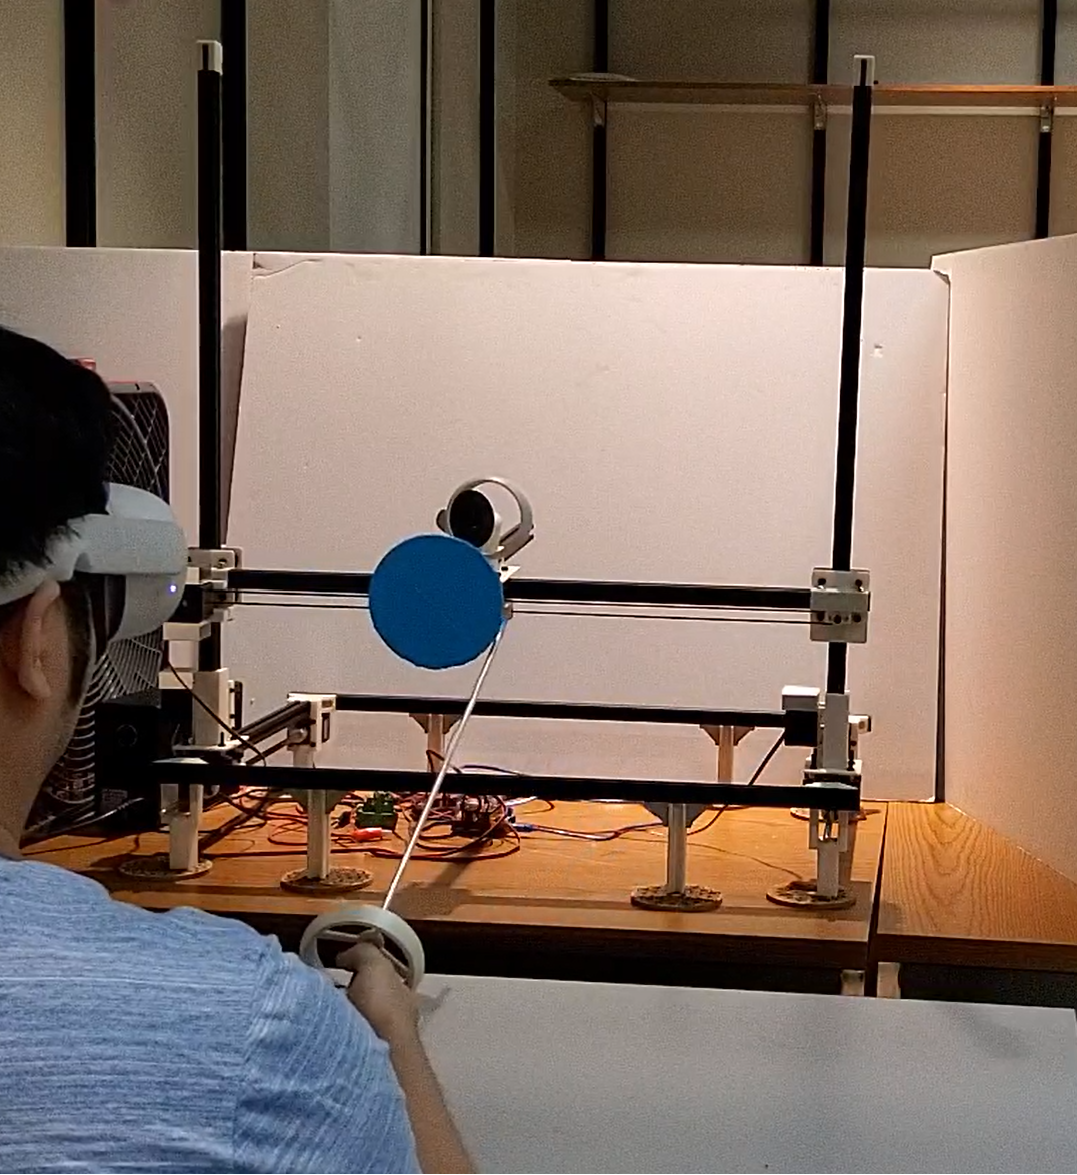
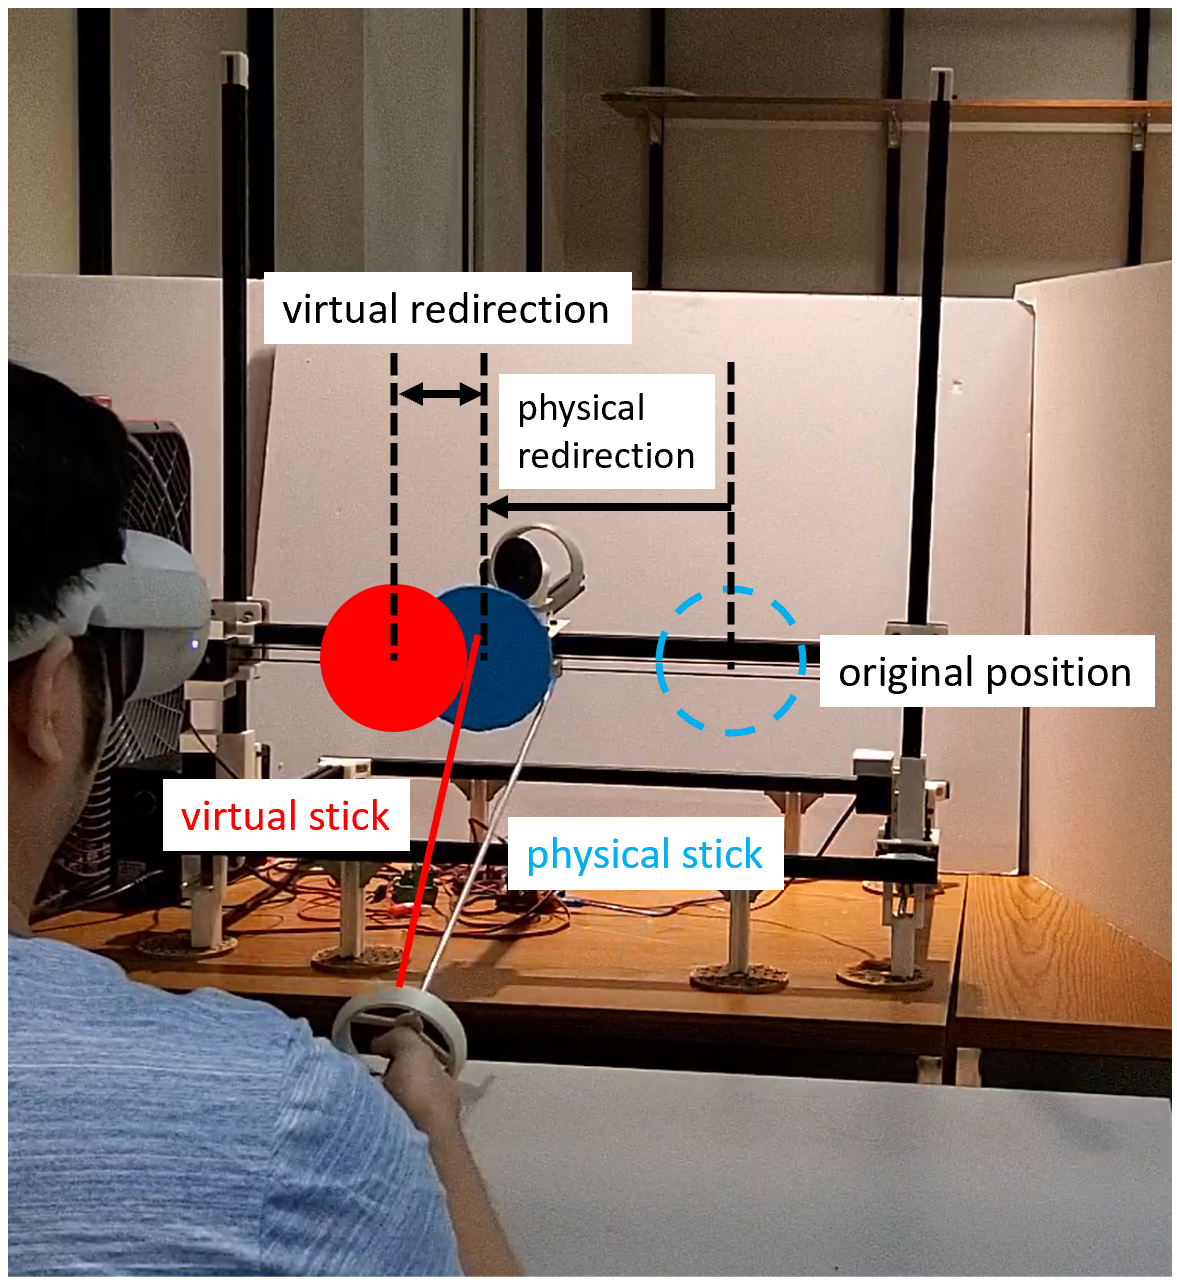
update images and projects

Changed region(s): [[0.0, 0.0, 1.0, 1.0], [0.9192, 0.8272, 0.9499, 0.8579]]

diff --git a/index.html b/index.html
@@ -39,15 +39,15 @@
             <h1>About me</h1>
   <div class="col-md-9">
       <p lang="en">
-          I am currently a PhD candidate at <a href="https://www.cs.purdue.edu/">Purdue University</a>, 
-          where I started my PhD program since 2021, advised by Professor <a href="https://www.cs.purdue.edu/homes/popescu/">Voicu Popescu</a>.
-          I am interested in XR research, especially VR haptics.
-          My take for the future VR haptics is an immersive world that enables the user to touch *anything* within their reach, a dream shown in
-          the movie <a href="https://en.wikipedia.org/wiki/Ready_Player_One_(film)">Ready Player One</a>.
-          For the first step, I designed and built the first prototype of Encountered-type Haptic Device (ETHD) last year in the form of a Cartesian robot.
-          I'm also a big fan of wearable haptic devices and will work on them in the future.
-          Other than VR haptics, I also have first-author publications in other XR fields, such as Cloud VR and collaborate AR. 
-          Here is my <a href="contents/resume_YuqiZhou.pdf">CV</a>.
+          I am currently a Computer Science PhD candidate at <a href="https://www.cs.purdue.edu/">Purdue University</a>, 
+          advised by Professor <a href="https://www.cs.purdue.edu/homes/popescu/">Voicu Popescu</a>.
+          I am interested in extended reality (XR), especially haptics for virtual reality (VR). My take on the future of VR haptics is 
+          an immersive world in which the user can touch any virtual object within their reach—a lot like in the 
+          <a href="https://en.wikipedia.org/wiki/Ready_Player_One_(film)">Ready Player One</a> movie. I have taken a first step in this 
+          direction: I designed and built an Encountered-Type Haptic Device (ETHD) in the form of a Cartesian robot. I am also a big fan 
+          of wearable haptic devices, on which I plan to work in the immediate future. Other than VR haptics, I am also interested in 
+          other XR fields, such as cloud VR and collaborative augmented reality (AR). Here is my 
+          <a href="contents/resume_YuqiZhou.pdf">CV</a>.
 </div>
   
   <div class="col-md-3">
@@ -57,19 +57,23 @@
   <div class="clearfix"></div>
   <hr>
   
-  <h1>Selected work</h1>
+  <h1>Research projects</h1>
   
   <!-- ETHD -->
-  <div class="col-md-4">
+  <div class="col-md-5">
       <a href="./images/ETHD.png" title="EHTD"><img src="images/ETHD.png" alt="ETHD design" class="img-responsive"></a>
   </div>
-  <div class="col-md-8">
+  <div class="col-md-7">
       <h2><a href="https://github.com/youyutiancai/ETHD_Cartesian/tree/main">VR haptics with ETHD</a></h2>
       <p lang="en"> 
-        The first component of all-accessible system is a robot that serves as physical replica of stationary objects, especially those placed on stationary surfaces such as a table.
-        Without an ETHD, a wearable device that can simulate the tactile feedback cannot properly halt the user's hand. As a result, the user's hand will penetrate 
-        through the object.
-        I built this robot mainly for proving some of my thoughts and hypotheses. 
+        One can allow the user to touch any virtual object by building a high-fidelity physical replica of the virtual environment—but 
+        that is impractical. A better approach is to try to alleviate the differences between the virtual and the physical world. One 
+        option is to change the physical world to align it locally with the part of the virtual world with which the user is about to 
+        interact. For this I built an ETHD, a Cartesian robot that moves a physical object to align it with the virtual object the user 
+        is about to touch. Another option is to change the virtual world to align it with the physical world. I have developed physical 
+        and virtual redirection algorithms that cooperate to allow the user to touch stationary or dynamic virtual objects of varying 
+        shapes with perfect synchronization of the virtual and physical contacts. This provides the user with safe and believable haptic 
+        feedback. The image shows my ETHD providing haptic feedback to the user.
         <!--See the <a href="/publications">publications page</a> for more details.-->
       </p>
   </div>
@@ -80,15 +84,16 @@
   <div class="col-md-12"></div><div class="col-md-12"></div><div class="col-md-12"></div><div class="col-md-12"></div><div class="col-md-12"></div><div class="col-md-12"></div>
   <div class="col-md-12"></div><div class="col-md-12"></div><div class="col-md-12"></div><div class="col-md-12"></div><div class="col-md-12"></div><div class="col-md-12"></div>
   <!-- CloVR -->
-  <div class="col-md-4">
+  <div class="col-md-5">
       <a href="./images/CloVR.png" title="CloVR"><img src="images/CloVR.png" alt="CloVR" class="img-responsive"></a>
   </div>
-  <div class="col-md-8">
+  <div class="col-md-7">
       <h2>CloVR: Fast-Startup Low-Latency Cloud VR</h2>
-      <p lang="en">Speaking of cloud gaming for VR, one can only think of the traditional way of reading the user's input and sending computed frames from the server to the user. 
-        This approach works for PC games, but the roundtrip latency can easily nauseate the user. 
-        We came up with a novel method that transfers part of the virtual environment from the server to the client and renders the rest as a cubemap. 
-        This approach can maintain complete visualization and fast startup features for a large-scale 3D scene, while the local rendering with high framerate does not make the user sick.
+      <p lang="en">We now have amazing self-contained XR headsets with on-board tracking, rendering, and display, delivering to the user 
+        completely untethered VR experiences. One challenge is to increase the complexity of the virtual environments that can be rendered
+        on these headsets. I am working on a distributed VR system, dubbed CloVR, which partitions the rendering load between the server 
+        and the client, shielding the client from the full complexity of the virtual environment. The images show how CloVR downloads a 
+        visually complete and functionally virtual environment much faster than a conventional download of visible objects.
       </p>
   </div>
 
@@ -102,13 +107,16 @@
   </div>
   <div class="col-md-7">
       <h2>Co-located AR Attention Guidance</h2>
-      <p lang="en">In this project, I developed a system for a "guide" to point out a real-world reference point to a "tourist" using tablets with cameras. 
-        The guide annotates the point, sent to the tourist's tablet, and guides them to the target with zoom. 
-        It outperforms conventional augmented reality in localization speed and provides directional guidance without relying on visual details in challenging scenes.
+      <p lang="en">Consider two collaborators, e.g., an instructor and a student, standing side-by-side, looking at the same 3D scene. 
+        I developed a method that allows the instructor to point out an element of the scene to the student using tablets or phones. 
+        The instructor circles the target on their display and a circle appears around the target on the student's display. Then the 
+        student's display turns transparent, i.e., the live video it shows grows similar to what the student would see if the display 
+        were actually made of glass. The transparent display gives to the student accurate directional guidance to the target, helping 
+        them find it with the naked eye. The image shows the transparent student display pointing to a window of the far away building.
       </p>
   </div>
 
-  <div class="clearfix"></div>
+  <!-- <div class="clearfix"></div>
   <div class="col-md-12"></div><div class="col-md-12"></div><div class="col-md-12"></div><div class="col-md-12"></div><div class="col-md-12"></div><div class="col-md-12"></div>
   <div class="col-md-12"></div><div class="col-md-12"></div><div class="col-md-12"></div><div class="col-md-12"></div><div class="col-md-12"></div><div class="col-md-12"></div>
   <div class="col-md-12"></div><div class="col-md-12"></div><div class="col-md-12"></div><div class="col-md-12"></div><div class="col-md-12"></div><div class="col-md-12"></div>
@@ -124,7 +132,7 @@
         that not only ensures the synchronized virtual and physical contact at the end, but also enables shape mapping with smooth transition. 
         That is, a physical object can provide haptic feedback for virtual objects in different shapes.
       </p>
-  </div>
+  </div> -->
   
   
           </div>
